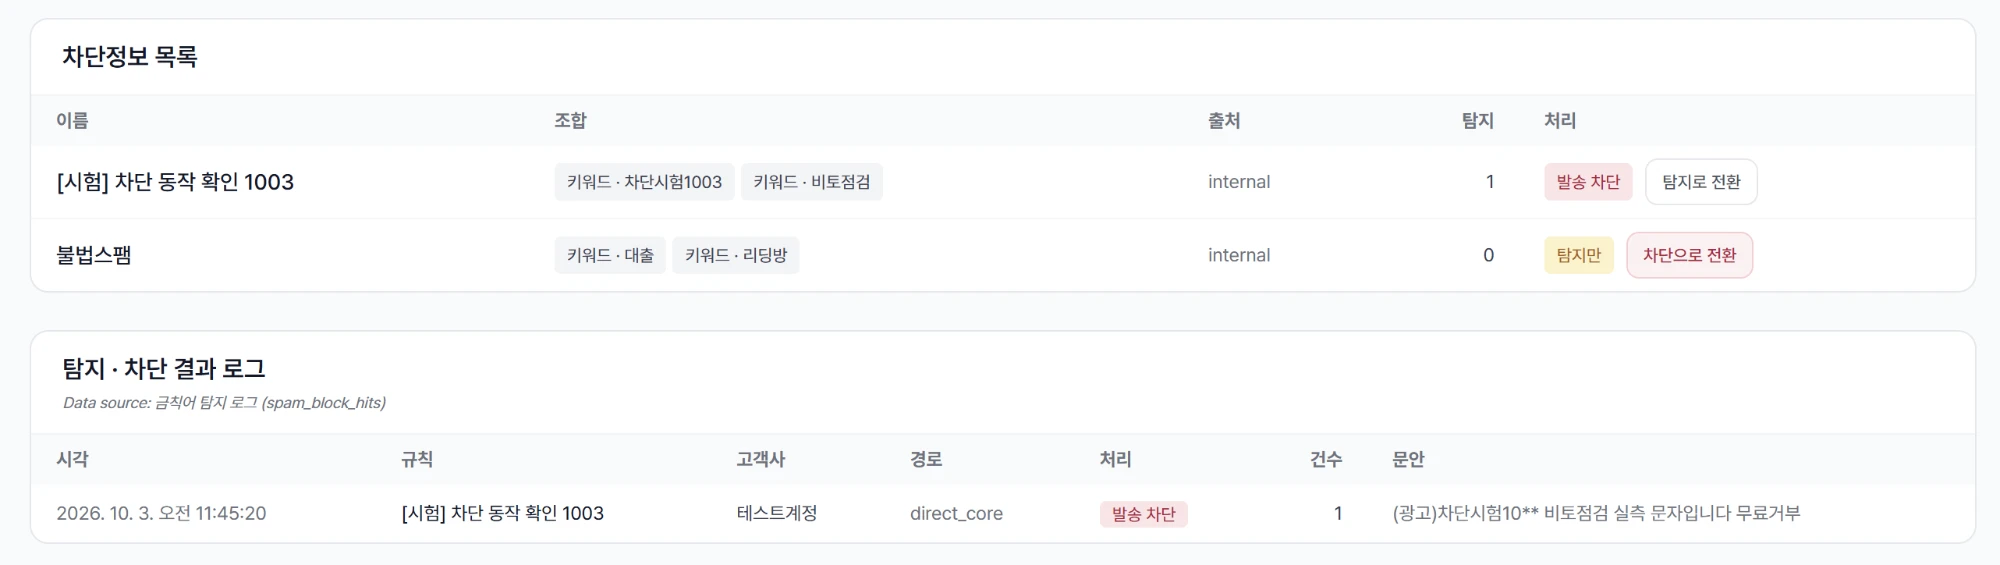
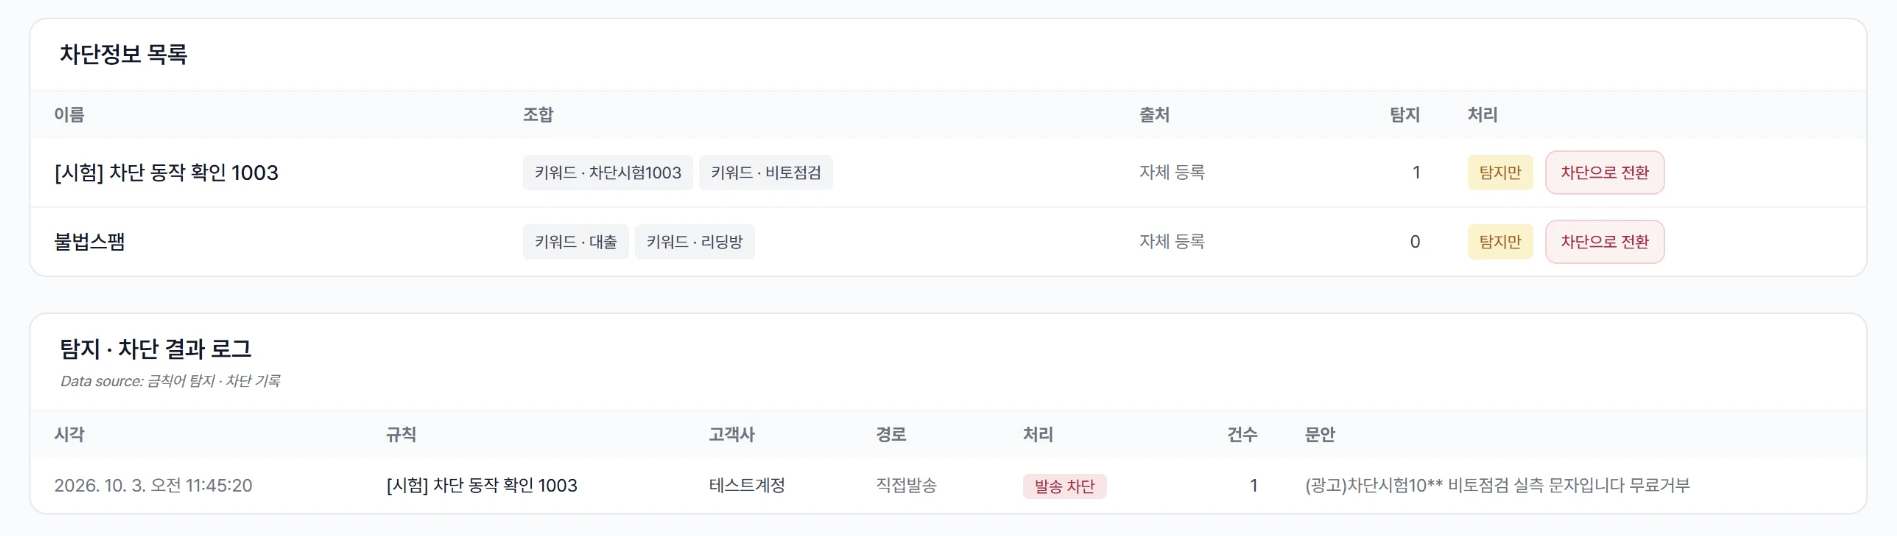
1003 로그인 안내 창 한 화면 축소(창 폭 720 · 머리 문단 2줄) · H15 배포 뒤 재캡처(내부 표기 0) · 운영 기록 대장 대표 13건 무효 처리 기록 · 증빙 대장 · 원장

diff --git a/docs/transmission-cert/resubmit-1006/00-증빙-대장.md b/docs/transmission-cert/resubmit-1006/00-증빙-대장.md
@@ -193,7 +193,7 @@
 | H18 | 4.2 ⑤ | 한줄로 앱 로그 폴더 권한 `drwxrwxr-x` → `drwxr-xr-x`(소유자만 쓰기) · 조정 뒤 앱 로그 계속 기록 | 제출 가능 — 1003 Harold 실행(root `chmod g-w,o-w`) · H13 의 옛 권한 표시는 조정 전 수집분 |
 | H17 | 2.1 ③ · ④ | 발신번호 회선 정책 화면(슈퍼관리자 고객사 상세 설정 · 기본정보) — 적용 상한 · 무선 4(활성 계정 1개 × 4) · 보유 무선 58 · 유선 274 · 가입자 유형 법인 | 제출 가능 — 1003 D-8 켠 뒤 Harold 캡처 · 「발신번호 회선 정책」 칸만 잘라 냄(위쪽 발송 라인 이름 · 고객사 이름 제외) |
 | H16 | 1.1 · 4.1 | 발송 기록(문자 결과 월별 표) 보관 — 2026-02 ~ 2026-11 표 110개 · 달마다 추정 행 수(2월 33 · 3월 21만 · 6월 538만 …) | 제출 가능 — 1003 Harold 조회. 우리 코드에 이 표를 지우는 곳 없음 → 약관 13조 9항 「1년 이상 보관」 근거. 10 · 11월 추정 0 은 통계값 그대로(설명하지 않음) |
-| H15 | 5.2(1.3 계획서 5-1) | 금칙어 차단 실측 화면 — 차단정보 목록(시험 규칙 「발송 차단」) · 결과 로그(11:45:20 「발송 차단」 1행) | 제출 가능(Harold 1003 캡처 · 원본 webp → png). ⚠ 화면에 내부 표기 3개가 보인다: 「Data source … (spam_block_hits)」 · 경로 `direct_core` · 출처 `internal` — 대외 제출 화면의 내부 식별자 원칙과 어긋남 → ★1003 Harold 「고쳐」 · 화면 표기 수정 완료(출처 설명 「금칙어 탐지 · 차단 기록」 · 경로 · 출처 한국어 이름표 `constants/spam-block-labels.ts` · 계약 시험 `spam-block-labels-1003`) · **배포 뒤 다시 캡처** |
+| H15 | 5.2(1.3 계획서 5-1) | 금칙어 차단 실측 화면 — 차단정보 목록(시험 규칙은 시험 뒤 「탐지만」으로 되돌린 상태 · 규칙마다 「차단으로 전환」) · 결과 로그(11:45:20 「발송 차단」 1행 · 경로 「직접발송」) | 제출 가능 — ★1003 저녁 배포 뒤 다시 캡처(Harold · 원본 webp → png). 내부 표기 3개(「(spam_block_hits)」 · `direct_core` · `internal`)가 「금칙어 탐지 · 차단 기록」 · 「직접발송」 · 「자체 등록」으로 바뀐 화면. 옛 캡처(시험 규칙 「발송 차단」 상태 · 내부 표기 보임)는 교체 | |
 
 ⚠ 수집 A 에서 본 숫자 하나 — 인증번호 수신 번호 등록 계정이 관리자 130 중 1 · 사용자 107 중 1 인데, 번호 변경 이력에는 15개 넘는 계정이 있다. 다중인증은 `users.mfa_phone` 이 있는 계정에만 걸린다(`utils/mfa.ts`). 왜 갈리는지는 미확인 — 모바일인증 연동 뒤 다시 조회할 때 함께 본다.
 
@@ -229,6 +229,8 @@
 | 12 | 엔진 | 방화벽 임시 SSH 줄 삭제 · 사설 원격 접속망 정리 | 3.1 ① · ④ | Harold 실행 → 다시 수집 |
 
 ## 5. 이력
+
+- 2026-10-03 저녁 배포 뒤(Harold) — 금칙어 화면 다시 캡처 → H15 교체(내부 표기 0 · 시험 규칙은 「탐지만」 상태 · 결과 로그 11:45:20 「발송 차단」 그대로). 운영 기록 대장 대표 작성 13건 무효 처리 완료(Harold · 대표 계정) → 월요일 서수란 15건 작성 · 대표 확인.
 
 - 2026-10-03 한줄로 서버 데이터센터 브릿지 방화벽 정리(Harold · 하나로호스팅 관리 화면 · 정책 적용 20:44) — 전: TCP 전체 허용 · PING · 기본 차단 → 후: 22(대표 · 사무실) · 80 · 443(전체) · 23388(결제 통계 수집 5곳) · PING · 기본 차단. 적용 뒤 확인(Harold 실행): 20:44:55 SSH 새 로그인 · 웹 요청 415건(출발지 19곳) · 싱크 요청 21:00 · 9443 연결 4 · 결제 통계 .58 · .57 · .54 3분 사이 증가 · .65 에서 새 연결 성공(21:08 · 21:02:38 적재 34행 실패 0) · 139.150.81.213 은 적용 전후 모두 0. 화면 = H21 · 운영 기록 대장 15번(입력안 15건 · 서수란 메모 15건으로 고침 · 입력안 확인 역할 문구를 「작성 = 서수란 · 확인 = 대표」로 바로잡음).
 

diff --git a/docs/2026-08-18-transmission-qualification-cert.md b/docs/2026-08-18-transmission-qualification-cert.md
@@ -1205,7 +1205,7 @@ JWT를 주고 화면에서 가리는 방식은 통제가 아니다(그 토큰으
 
 - 로그인 안내 창(`LoginPolicyNoticeModal.tsx`) — Harold 「가이드라인은 메시징 사업자(우리)용 · 고객사는 우리 정책이 시행되는 것을 보는 게 낫다」 → 항목마다 가이드라인 발췌 · 원문 PDF · 게시물 링크를 빼고 **고객사에 바뀌는 것**(인증번호 6자리 매 로그인 · 담당자 1명 본인인증 · 발신번호 인증 8시간)을 우리 말로 · 맨 아래 「근거: 방송미디어통신위원회 전송자격인증제(2026년 10월 26일 전 사업자 시행)」 한 줄(링크 없음) · 머리 「한줄로만의 정책이 아닙니다.」 뒤 줄바꿈. 계약 테스트 `session-8h-login-notice-1002` 갱신(11건 · 유지 시간은 코드 값 대조).
 - 금칙어 화면(H15 내부 표기) — 출처 설명 「금칙어 탐지 · 차단 기록」 · 경로 · 출처 한국어 이름표(`constants/spam-block-labels.ts`) · 계약 테스트 `spam-block-labels-1003`(백엔드가 남기는 경로 값 전수 대조 · `direct_scheduled` 잡음).
-- 검증 = FE tsc 0 · `build:safe` 통과. 배포 = 다음 tp-push(디버깅 세션 Codex 마감 뒤) · 배포 뒤 H15 다시 캡처.
+- 검증 = FE tsc 0 · `build:safe` 통과. 배포 = 다음 tp-push(디버깅 세션 Codex 마감 뒤) · 배포 뒤 H15 다시 캡처. ★1003 저녁 = 배포 · H15 교체 완료.
 - **배포 뒤 Harold 「스크롤 말고 한 화면에 · 머리 문단 두 줄로」** → 창 폭 640 → 720 · 머리 · 항목 글자와 여백 축소 · 머리 문단 폭 제한(30em) 제거 + 어절 단위 줄바꿈(`break-keep`). 실측(빌드 CSS · 렌더 HTML · 퍼피티어) = 수정 전 1440×740 창 716px · 본문 110px 넘침 · 머리 문단 3줄(Harold 화면 재현) → 수정 뒤 창 620px · 1366×657 이상 스크롤 0 · 머리 문단 2줄. 1280×620 은 24px · 휴대폰 폭(390)은 머리 3줄 · 본문 136px 스크롤(폭이 좁아 줄바꿈 불가피).
 
 ### 1003 저녁 — 운영 기록 대장 「무효 처리」 (코드 완료 · 미배포 · DDL 0)
@@ -1214,7 +1214,7 @@ JWT를 주고 화면에서 가리는 방식은 통제가 아니다(그 토큰으
 - 기능 = 대표 등급만 · 확인 전 기록만 · 사유 필수 · 여러 건은 전부 되거나 전부 안 된다 · 원래 기록은 남고 `ops_record_voided`(처리자 · 일시 · 사유)를 더 쌓는다 · 목록 · 확인 대기 수에서 빠지고 「무효 포함」으로만 보인다 · 무효 기록은 확인 · 정정 불가 · 확인과 같은 기록 id 잠금(정렬 순서).
 - 코드 = `utils/ops-records.ts`(`voidOpsRecords` · 확인 · 정정 · 목록 판정) · `routes/admin-ops-records.ts`(`POST /void` · `meta.canVoid`) · `OpsRecordsTab.tsx`(무효 처리 창 · 「무효 제외/포함」) · 라벨 `ops_record_voided`.
 - 검증 = BE · FE tsc 0 · vitest 548파일 7,734건 · 결함 주입 5종 전부 잡힘 · FE `build:safe` 통과. Codex = 대상 밖(돈 · 국세청 · DB 마이그레이션 아님).
-- 순서 = 배포 → Harold 13건 무효 처리 → 월요일 서수란 15건 작성(입력안 · 1003 저녁 브릿지 정리까지) → Harold 확인.
+- 순서 = 배포 → Harold 13건 무효 처리 → 월요일 서수란 15건 작성(입력안 · 1003 저녁 브릿지 정리까지) → Harold 확인. ★1003 저녁 = 배포 · 13건 무효 처리 완료(Harold).
 
 ### 1003 저녁 — 데이터센터 브릿지 방화벽 정리 (서버 조치 · Harold · 닫힘)
 
